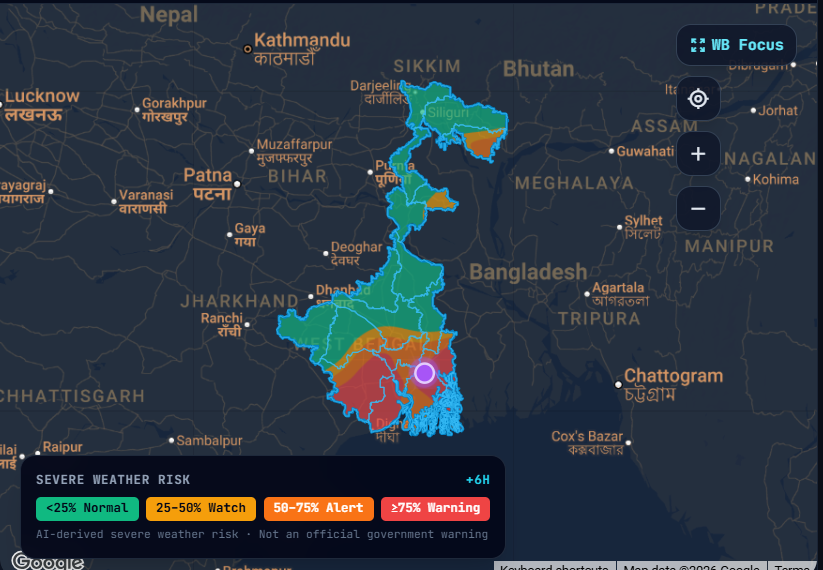
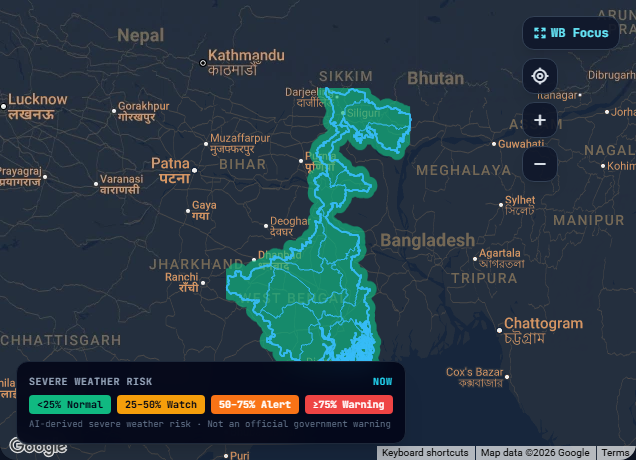
fix: default dashboard KPIs and sidebar alert to a calm state instead of a red emergency mockup

diff --git a/frontend/index.html b/frontend/index.html
@@ -206,26 +206,37 @@ window.STORMSENSE_MAPS_KEYS = (typeof GOOGLE_MAPS_API_KEYS_JSON_PLACEHOLDER !== 
     </div>
   </div>
 
-  <!-- Live Critical Alert Box: Stage 4 Warning -->
-  <div class="p-4 rounded-2xl bg-gradient-to-b from-red-950/60 via-red-900/20 to-slate-950/80 border border-red-500/40 shadow-xl shadow-red-950/40 relative overflow-hidden backdrop-blur-xl group hover:border-red-500/60 transition-all">
-    <div class="absolute -right-8 -top-8 size-28 bg-red-500/15 rounded-full blur-2xl pointer-events-none group-hover:bg-red-500/25 transition-all"></div>
+  <!-- AI Nowcast Notice: defaults to the CALM state, not an alarm.
+       _paintSidebarAlert() in app.js repaints this from real district data,
+       but that fetch is a Promise.all() of four requests -- real network
+       latency, so this card is on screen exactly as shipped here for however
+       long that takes on every load. It used to default to the red/urgent
+       "West Bengal Convective Watch" markup with the siren button always
+       visible, so a calm dashboard (green everywhere else) opened with what
+       read as an active emergency notice above a lit-up evacuation button,
+       until the real (usually calm) data arrived a moment later. Matches the
+       STYLES.green branch in _paintSidebarAlert exactly, so there is nothing
+       to flash TO -- the calm case now needs no repaint at all, and only an
+       actually elevated risk changes what is on screen. -->
+  <div class="p-4 rounded-2xl bg-gradient-to-b from-emerald-950/50 via-emerald-900/15 to-slate-950/80 border border-emerald-500/30 shadow-xl shadow-black/30 relative overflow-hidden backdrop-blur-xl group hover:border-emerald-500/50 transition-all">
+    <div class="absolute -right-8 -top-8 size-28 bg-emerald-500/10 rounded-full blur-2xl pointer-events-none group-hover:bg-emerald-500/25 transition-all"></div>
     <div class="flex items-center justify-between mb-2.5 relative z-10">
       <div class="flex items-center gap-2">
         <span class="relative flex size-2.5">
-          <span class="animate-ping absolute inline-flex h-full w-full rounded-full bg-red-400 opacity-75"></span>
-          <span class="relative inline-flex rounded-full size-2.5 bg-red-500"></span>
+          <span class="absolute inline-flex h-full w-full rounded-full bg-emerald-400 opacity-0"></span>
+          <span class="relative inline-flex rounded-full size-2.5 bg-emerald-400"></span>
         </span>
         <span class="text-[10px] font-bold uppercase tracking-wider text-cyan-400 font-mono">AI Nowcast Notice</span>
       </div>
       <span class="text-[9px] text-cyan-200 bg-cyan-500/20 px-2 py-0.5 rounded-full font-mono font-bold border border-cyan-500/40 tracking-wider">AI FORECAST</span>
     </div>
     <div class="text-white font-bold text-xs mb-1.5 leading-snug relative z-10" id="bind-sidebar-alert-title">
-      West Bengal Convective Watch
+      No Active Watch
     </div>
     <p class="text-[11px] text-slate-300 leading-relaxed mb-3.5 font-normal relative z-10" id="bind-sidebar-alert-body">
-      AI severe weather forecast active for West Bengal.
+      Checking current model risk for West Bengal…
     </p>
-    <button class="btn-siren-trigger w-full flex items-center justify-center gap-2 py-2.5 px-3 rounded-xl bg-gradient-to-r from-red-600 via-rose-600 to-red-600 hover:from-red-500 hover:to-rose-500 text-white text-xs font-bold shadow-lg shadow-red-600/30 hover:shadow-red-600/50 transition-all active:scale-[0.98] cursor-pointer border border-red-500/40 relative z-10 group" id="btn-dispatch-siren-side">
+    <button class="btn-siren-trigger hidden w-full flex items-center justify-center gap-2 py-2.5 px-3 rounded-xl bg-gradient-to-r from-red-600 via-rose-600 to-red-600 hover:from-red-500 hover:to-rose-500 text-white text-xs font-bold shadow-lg shadow-red-600/30 hover:shadow-red-600/50 transition-all active:scale-[0.98] cursor-pointer border border-red-500/40 relative z-10 group" id="btn-dispatch-siren-side">
       <span class="material-symbols-outlined text-sm group-hover:animate-pulse">emergency_share</span>
       <span class="tracking-wide">DISPATCH EVACUATION SIREN</span>
     </button>
@@ -456,7 +467,7 @@ window.STORMSENSE_MAPS_KEYS = (typeof GOOGLE_MAPS_API_KEYS_JSON_PLACEHOLDER !== 
 <span class="text-[11px] font-bold font-mono tracking-wider uppercase text-slate-400" id="kpi-ts-scope">Atmospheric Hazard · West Bengal peak</span>
 <h3 class="text-white font-bold text-base mt-0.5">Thunderstorm</h3>
 </div>
-<span id="kpi-ts-level" class="px-2.5 py-1 rounded-lg bg-amber-500/15 text-amber-400 border border-amber-500/40 text-[11px] font-bold font-mono uppercase tracking-wider">OPERATIONAL</span>
+<span id="kpi-ts-level" class="px-2.5 py-1 rounded-lg bg-emerald-500/10 text-emerald-400 border border-emerald-500/40 text-[11px] font-bold font-mono uppercase tracking-wider">NORMAL</span>
 </div>
 <div class="flex items-baseline justify-between mb-3">
 <span class="text-4xl font-extrabold text-white tracking-tight font-mono" id="kpi-ts-value">...</span>
@@ -465,12 +476,12 @@ window.STORMSENSE_MAPS_KEYS = (typeof GOOGLE_MAPS_API_KEYS_JSON_PLACEHOLDER !== 
 </div>
 <div>
 <div id="kpi-ts-bars" class="w-full h-9 flex items-end gap-1.5 mb-3 pt-1">
-<div class="flex-1 bg-amber-500/20 rounded-md h-3"></div>
-<div class="flex-1 bg-amber-500/30 rounded-md h-4"></div>
-<div class="flex-1 bg-amber-500/45 rounded-md h-5"></div>
-<div class="flex-1 bg-amber-500/60 rounded-md h-6"></div>
-<div class="flex-1 bg-amber-500/80 rounded-md h-7"></div>
-<div class="flex-1 bg-amber-500 rounded-md h-9"></div>
+<div class="flex-1 bg-slate-700/30 rounded-md h-3"></div>
+<div class="flex-1 bg-slate-700/30 rounded-md h-4"></div>
+<div class="flex-1 bg-slate-700/30 rounded-md h-5"></div>
+<div class="flex-1 bg-slate-700/30 rounded-md h-6"></div>
+<div class="flex-1 bg-slate-700/30 rounded-md h-7"></div>
+<div class="flex-1 bg-slate-700/30 rounded-md h-9"></div>
 </div>
 <div class="flex items-center justify-between text-[11px] text-slate-400 pt-3 border-t border-slate-800/80">
 <span id="kpi-ts-detail">LIVE</span>
@@ -487,7 +498,7 @@ window.STORMSENSE_MAPS_KEYS = (typeof GOOGLE_MAPS_API_KEYS_JSON_PLACEHOLDER !== 
 <span class="text-[11px] font-bold font-mono tracking-wider uppercase text-slate-400" id="kpi-rain-scope">Precipitation Hazard · West Bengal peak</span>
 <h3 class="text-white font-bold text-base mt-0.5">Heavy Rainfall</h3>
 </div>
-<span id="kpi-rain-level" class="px-2.5 py-1 rounded-lg bg-amber-500/15 text-amber-400 border border-amber-500/40 text-[11px] font-bold font-mono uppercase tracking-wider">OPERATIONAL</span>
+<span id="kpi-rain-level" class="px-2.5 py-1 rounded-lg bg-emerald-500/10 text-emerald-400 border border-emerald-500/40 text-[11px] font-bold font-mono uppercase tracking-wider">NORMAL</span>
 </div>
 <div class="flex items-baseline justify-between mb-3">
 <span class="text-4xl font-extrabold text-white tracking-tight font-mono" id="kpi-rain-value">...</span>
@@ -496,12 +507,12 @@ window.STORMSENSE_MAPS_KEYS = (typeof GOOGLE_MAPS_API_KEYS_JSON_PLACEHOLDER !== 
 </div>
 <div>
 <div id="kpi-rain-bars" class="w-full h-9 flex items-end gap-1.5 mb-3 pt-1">
-<div class="flex-1 bg-orange-500/20 rounded-md h-2.5"></div>
-<div class="flex-1 bg-orange-500/35 rounded-md h-3"></div>
-<div class="flex-1 bg-orange-500/50 rounded-md h-4.5"></div>
-<div class="flex-1 bg-orange-500/65 rounded-md h-6"></div>
-<div class="flex-1 bg-orange-500/80 rounded-md h-7"></div>
-<div class="flex-1 bg-orange-500 rounded-md h-8"></div>
+<div class="flex-1 bg-slate-700/30 rounded-md h-2.5"></div>
+<div class="flex-1 bg-slate-700/30 rounded-md h-3"></div>
+<div class="flex-1 bg-slate-700/30 rounded-md h-4.5"></div>
+<div class="flex-1 bg-slate-700/30 rounded-md h-6"></div>
+<div class="flex-1 bg-slate-700/30 rounded-md h-7"></div>
+<div class="flex-1 bg-slate-700/30 rounded-md h-8"></div>
 </div>
 <div class="flex items-center justify-between text-[11px] text-slate-400 pt-3 border-t border-slate-800/80">
 <span id="kpi-rain-detail">LIVE</span>
@@ -518,7 +529,7 @@ window.STORMSENSE_MAPS_KEYS = (typeof GOOGLE_MAPS_API_KEYS_JSON_PLACEHOLDER !== 
 <span class="text-[11px] font-bold font-mono tracking-wider uppercase text-slate-400" id="kpi-ff-scope">Hydrological Hazard · West Bengal peak</span>
 <h3 class="text-white font-bold text-base mt-0.5">Flash-Flood Risk Proxy</h3>
 </div>
-<span id="kpi-flood-level" class="px-2.5 py-1 rounded-lg bg-amber-500/15 text-amber-400 border border-amber-500/40 text-[11px] font-bold font-mono uppercase tracking-wider">OPERATIONAL</span>
+<span id="kpi-flood-level" class="px-2.5 py-1 rounded-lg bg-emerald-500/10 text-emerald-400 border border-emerald-500/40 text-[11px] font-bold font-mono uppercase tracking-wider">NORMAL</span>
 </div>
 <div class="flex items-baseline justify-between mb-3">
 <span class="text-4xl font-extrabold text-white tracking-tight font-mono" id="kpi-flood-value">...</span>
@@ -527,12 +538,12 @@ window.STORMSENSE_MAPS_KEYS = (typeof GOOGLE_MAPS_API_KEYS_JSON_PLACEHOLDER !== 
 </div>
 <div>
 <div id="kpi-flood-bars" class="w-full h-9 flex items-end gap-1.5 mb-3 pt-1">
-<div class="flex-1 bg-amber-500/25 rounded-md h-3"></div>
-<div class="flex-1 bg-amber-500/40 rounded-md h-4"></div>
-<div class="flex-1 bg-amber-500/55 rounded-md h-5"></div>
-<div class="flex-1 bg-amber-500/70 rounded-md h-7"></div>
-<div class="flex-1 bg-amber-500/85 rounded-md h-8"></div>
-<div class="flex-1 bg-amber-500 rounded-md h-9"></div>
+<div class="flex-1 bg-slate-700/30 rounded-md h-3"></div>
+<div class="flex-1 bg-slate-700/30 rounded-md h-4"></div>
+<div class="flex-1 bg-slate-700/30 rounded-md h-5"></div>
+<div class="flex-1 bg-slate-700/30 rounded-md h-7"></div>
+<div class="flex-1 bg-slate-700/30 rounded-md h-8"></div>
+<div class="flex-1 bg-slate-700/30 rounded-md h-9"></div>
 </div>
 <div class="flex items-center justify-between text-[11px] text-slate-400 pt-3 border-t border-slate-800/80">
 <span id="kpi-flood-detail">LIVE</span>
@@ -540,28 +551,41 @@ window.STORMSENSE_MAPS_KEYS = (typeof GOOGLE_MAPS_API_KEYS_JSON_PLACEHOLDER !== 
 </div>
 </div>
 </div>
-<!-- Card 4: Overall -->
-<div class="rounded-2xl p-6 bg-gradient-to-br from-slate-900 via-slate-900/80 to-slate-900/90 border-2 border-amber-500/40 backdrop-blur-xl relative overflow-hidden shadow-2xl flex flex-col justify-between">
-<div class="absolute -right-8 -top-8 size-32 bg-amber-500/10 rounded-full blur-3xl"></div>
+<!-- Card 4: Overall. Defaults to NORMAL/green, matching what paintForecastCards()
+     actually paints for a calm summary -- the amber "OPERATIONAL / WATCH /
+     MONITOR RADAR / 41% filled" markup this shipped with looked like a real,
+     specific, already-elevated reading, so it was on screen (looking like an
+     active watch) for however long the first fetch took, every load. -->
+<div class="rounded-2xl p-6 bg-gradient-to-br from-slate-900 via-slate-900/80 to-slate-900/90 border-2 border-emerald-500/40 backdrop-blur-xl relative overflow-hidden shadow-2xl flex flex-col justify-between">
+<div class="absolute -right-8 -top-8 size-32 bg-emerald-500/10 rounded-full blur-3xl"></div>
 <div>
 <div class="flex items-start justify-between mb-4">
 <div>
-<span class="text-[11px] font-bold font-mono tracking-wider uppercase text-amber-300" id="kpi-overall-category">Combined Index</span>
+<span class="text-[11px] font-bold font-mono tracking-wider uppercase text-emerald-300" id="kpi-overall-category">Combined Index</span>
 <h3 class="text-white font-bold text-base mt-0.5" id="kpi-overall-title">Overall Hazard Level</h3>
 </div>
-<span id="kpi-overall-level" class="px-2.5 py-1 rounded-lg bg-amber-600 text-slate-950 text-[11px] font-extrabold font-mono uppercase tracking-wider">OPERATIONAL</span>
+<span id="kpi-overall-level" class="px-2.5 py-1 rounded-lg bg-emerald-500/10 text-emerald-400 border border-emerald-500/40 text-[11px] font-extrabold font-mono uppercase tracking-wider">NORMAL</span>
 </div>
-<div class="flex items-baseline justify-between mb-3">
+<!-- Action text (id=kpi-overall-action) is real, longer text at runtime --
+     "WARNING - Activate Emergency Response Protocol", "ALERT - Prepare Civil
+     Defense & Field Units", etc (see getOverallAction() in app.js). Sharing a
+     flex row with the 4xl value squeezed/overlapped it against the
+     percentage for every one of those strings, not just this card's -- put
+     on its own line below instead, with room to wrap without crowding
+     anything. -->
+<div class="flex items-baseline mb-2">
 <span class="text-4xl font-black text-white tracking-tight font-mono" id="kpi-overall-value">...</span>
-<span id="kpi-overall-action" class="px-2 py-1 rounded bg-amber-500/20 border border-amber-500/40 text-amber-100 text-xs font-extrabold uppercase font-mono tracking-wide">MONITOR RADAR</span>
+</div>
+<div class="mb-3">
+<span id="kpi-overall-action" class="inline-block px-2 py-1 rounded bg-emerald-500/20 border border-emerald-500/40 text-emerald-100 text-xs font-extrabold uppercase font-mono tracking-wide">NORMAL - Nominal Observation</span>
 </div>
 </div>
 <div>
 <div class="w-full bg-slate-800 h-2.5 rounded-full overflow-hidden p-0.5 border border-slate-700/60 mb-3">
-<div id="kpi-overall-bar" class="bg-gradient-to-r from-emerald-500 via-amber-500 to-orange-500 h-full rounded-full" style="width:41%"></div>
+<div id="kpi-overall-bar" class="bg-gradient-to-r from-emerald-500 via-amber-500 to-orange-500 h-full rounded-full" style="width:1%"></div>
 </div>
-<div class="flex items-center justify-between text-[11px] text-slate-300 pt-3 border-t border-amber-500/30">
-<span class="font-bold text-amber-300" id="kpi-overall-stage">WATCH</span>
+<div class="flex items-center justify-between text-[11px] text-slate-300 pt-3 border-t border-emerald-500/30">
+<span class="font-bold text-emerald-300" id="kpi-overall-stage">NORMAL</span>
 <span class="text-slate-400 font-medium" id="kpi-overall-area">West Bengal</span>
 </div>
 </div>
@@ -625,12 +649,22 @@ window.STORMSENSE_MAPS_KEYS = (typeof GOOGLE_MAPS_API_KEYS_JSON_PLACEHOLDER !== 
      offset from NOW. Every value is written at runtime from the backend's
      authoritative reference instant -- nothing here is hardcoded. -->
 <div id="time-context-container" class="flex items-center bg-slate-950/80 px-3.5 py-2 rounded-xl border border-slate-700 min-w-[280px]">
-<div id="now-validity-box" class="hidden flex-col font-mono leading-tight">
+<!-- NOW is the button pre-selected below (bg-cyan-600 on the NOW button),
+     so this box -- not forecast-validity-box -- must be the one visible by
+     default. It used to start "hidden" here with forecast-validity-box
+     starting "flex", and nothing corrected that until setForecastHorizon()
+     ran inside loadDashboardData().then(...) -- a full network round trip
+     after first paint. That left the "+2H FORECAST" box visibly on screen
+     for however long that fetch took, every single load, before flipping to
+     this one. Defaulting the classes correctly here removes the flash
+     entirely: the right box is shown from the very first paint, with no
+     dependency on any JS running at all. -->
+<div id="now-validity-box" class="flex flex-col font-mono leading-tight">
 <span class="text-[10px] font-extrabold text-emerald-400 tracking-wider">CURRENT CONDITIONS</span>
 <span class="text-sm font-extrabold text-white tracking-tight" id="nv-obs-time-big">--:-- IST</span>
 <span class="text-[10px] text-slate-400">OBSERVED <span id="nv-obs-time" class="text-slate-300">--:--</span> · AGE <span id="nv-age" class="text-slate-300">--</span></span>
 </div>
-<div id="forecast-validity-box" class="flex flex-col font-mono leading-tight">
+<div id="forecast-validity-box" class="hidden flex-col font-mono leading-tight">
 <span class="text-[10px] font-extrabold text-cyan-400 tracking-wider" id="fv-horizon-title">+2H FORECAST</span>
 <!-- The exact forecast valid time (reference instant + horizon), in IST. -->
 <span class="text-sm font-extrabold text-white tracking-tight" id="fv-valid-ist">--:-- IST</span>
@@ -728,8 +762,8 @@ window.STORMSENSE_MAPS_KEYS = (typeof GOOGLE_MAPS_API_KEYS_JSON_PLACEHOLDER !== 
 <div class="mt-1" id="data-freshness"></div>
 <div class="text-xs text-slate-500 mt-1">Last Updated: <span id="last-updated-time">--:--</span></div>
 </div>
-<span id="profile-level" class="px-3 py-1.5 rounded-xl bg-amber-600 text-slate-950 text-xs font-black font-mono uppercase tracking-wider flex items-center gap-1.5">
-<span class="size-2 bg-white rounded-full"></span> OPERATIONAL
+<span id="profile-level" class="px-3 py-1.5 rounded-xl bg-emerald-600 text-slate-950 text-xs font-black font-mono uppercase tracking-wider flex items-center gap-1.5">
+<span class="size-2 bg-emerald-400 rounded-full animate-pulse"></span> LIVE MONITORING
               </span>
 </div>
 <!-- SECTION 2: AI FORECAST RISK at the user's coordinates.

diff --git a/README.md b/README.md
@@ -38,16 +38,11 @@ Short-range, hyper-local severe-weather warning for a monsoon-affected region is
 
 # ✨ Features
 
-## 🛰 Live & Historical Modes
-- **Live mode:** Fetches the newest available NOAA GFS analysis, harmonizes it onto the model's grid, and runs real inference.
-- **Historical mode:** Replays a single frozen, real event (Cyclone Remal, 26 May 2024) using the model's actual ERA5-input test-time forecast.
-
-<p align="center"><img src="frontend/static/screenshots/dashboard-historical-remal.png" alt="Historical case study: Cyclone Remal replay" width="85%"></p>
-
 ## 🧠 Advanced Machine Learning
 - **Model:** SevereWeatherNetV2 — a tri-stream ConvGRU feeding a shared multi-horizon decoder (781,889 parameters).
 - **Outputs:** Severe-weather probability, 3-hour rainfall (mm), and a derived flash-flood risk proxy.
 - **Lead Times:** +2h, +3h, +4h, +5h, +6h native model leads.
+- **Live inference:** Fetches the newest available NOAA GFS analysis, harmonizes it onto the model's grid, and runs real inference — this is the primary mode the dashboard runs in.
 
 ## 📊 Interactive Dashboard
 - **Wall-clock horizons:** NOW, +2h, +4h, +6h dynamic UI buttons.
@@ -68,6 +63,11 @@ Short-range, hyper-local severe-weather warning for a monsoon-affected region is
 <td align="center"><sub>XAI atmospheric attribution</sub></td>
 </tr>
 </table>
+
+## 🕰 Historical Case Study (secondary)
+A frozen replay of Cyclone Remal (26 May 2024), using the model's real ERA5-input test-time forecast for that event. Its purpose: when live weather over West Bengal happens to be calm at demo time, this lets you show the model actually detecting a genuine severe-weather event from past data, rather than only an uneventful live feed.
+
+<p align="center"><img src="frontend/static/screenshots/dashboard-historical-remal.png" alt="Historical case study: Cyclone Remal replay" width="85%"></p>
 
 ---
 
